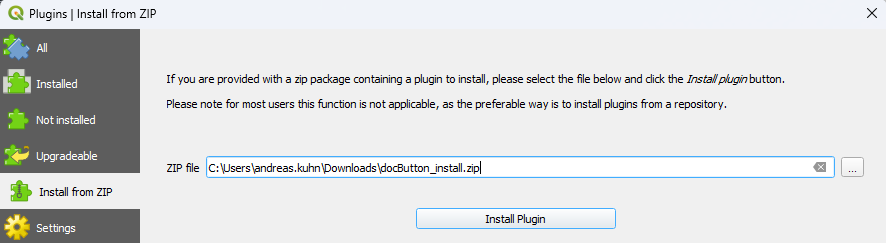
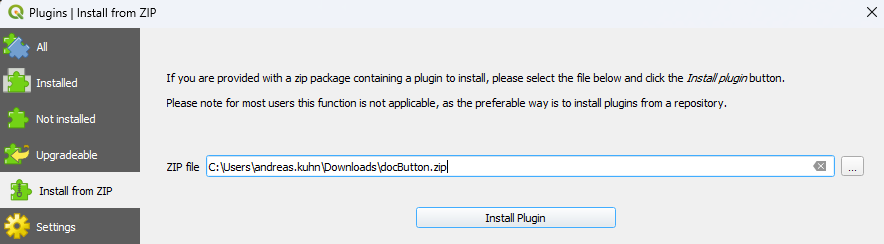
Add files via upload
adding documentation and error handling around undefined database connection

diff --git a/__init__.py b/__init__.py
@@ -37,7 +37,7 @@ class MinimalPlugin:
 
         # Add a settings entry to the Plugins menu
         self.settings_action = QAction(
-            "docButton Einstellungen",
+            "Settings",
             self.iface.mainWindow()
         )
         self.iface.addPluginToMenu(
@@ -56,7 +56,7 @@ class MinimalPlugin:
 
         # create a dialog object 
         dialog = QDialog(self.iface.mainWindow())
-        dialog.setWindowTitle("docButton Einstellungen")
+        dialog.setWindowTitle("Settings")
 
         # let user select one of the connections for use with plugin
         combo = QComboBox(dialog)
@@ -98,7 +98,6 @@ class MinimalPlugin:
     def run(self):
         # create settings object to access plugin settings through
         settings = QSettings()
-        settings_key = "docButton/postgres_connection" # settings key for postgres connection
 
         # Get selected layer to read data source from 
         activeLayer: QgsVectorLayer = self.iface.activeLayer() 
@@ -119,7 +118,7 @@ class MinimalPlugin:
             uri: QgsDataSourceUri = QgsDataSourceUri(activeLayer.source())
         except:
             QgsMessageLog.logMessage(
-                "Unable to find selected layer's data source.""",
+                "Unable to find selected layer's data source.",
                 "docButton",
                 Qgis.MessageLevel.Info
             )
@@ -127,8 +126,23 @@ class MinimalPlugin:
 
         uri.setTable('t_ili2db_meta_attrs') # re-target uri to interlis metadata table holding model info    
 
-        # Configure data provider interface
+        # configure data provider interface
         metadata = QgsProviderRegistry.instance().providerMetadata('postgres')
+        conn = settings.value("docButton/postgres_connection", type=str)
+
+        # check if setting was empty () 
+        if conn is None or conn == '':
+            # Warning ribbon
+            self.iface.messageBar().pushMessage(
+                "docButton",
+                """
+                No database connection setting found. Please configure which database connection to use in the plugin settings: Plugins > docButton."
+                """,
+                level=Qgis.MessageLevel.Warning,
+                duration=0
+            )
+            return
+
         connection = metadata.createConnection(
             settings.value("docButton/postgres_connection", type=str)
         ) 

diff --git a/ReadMe.md b/ReadMe.md
@@ -2,9 +2,17 @@
 
 ## Usage
 
+Simply select a layer that belongs to an INTERLIS model and hit the `Modell Dokumentation` button. If the model has a documentation URL configured ([more information here](#database-model-prerequisites)), this will open the documentation page in the default internet browser.
+
 ## Installation
 To install the plugin, follow these steps:
 1) Download the latest release `docButton_install.zip` file from the [releases page](https://github.com/ayomeer/docButton/releases).
 2) In QGIS, open the plugin manager, go to the "Install from ZIP" section, choose the downloaded zip and press the `Install Plugin` button:
 ![alt text](doc/installation/plugin_manager.png)
 ![install from zip](doc/installation/install_from_zip.png)
+3) Configure the database connection to use to retrieve the documentation link from. To do this, find the plugin settings under `Plugins > docButton > Settings`. This setting can be changed again at any time.
+
+## Database Model prerequisites
+
+The plugin looks for a documentation URL in the INTERLIS meta attribute `docURL` in `t_ili2db_meta_attrs`. For example:
+![docURL](doc/usage/docURL.png)
